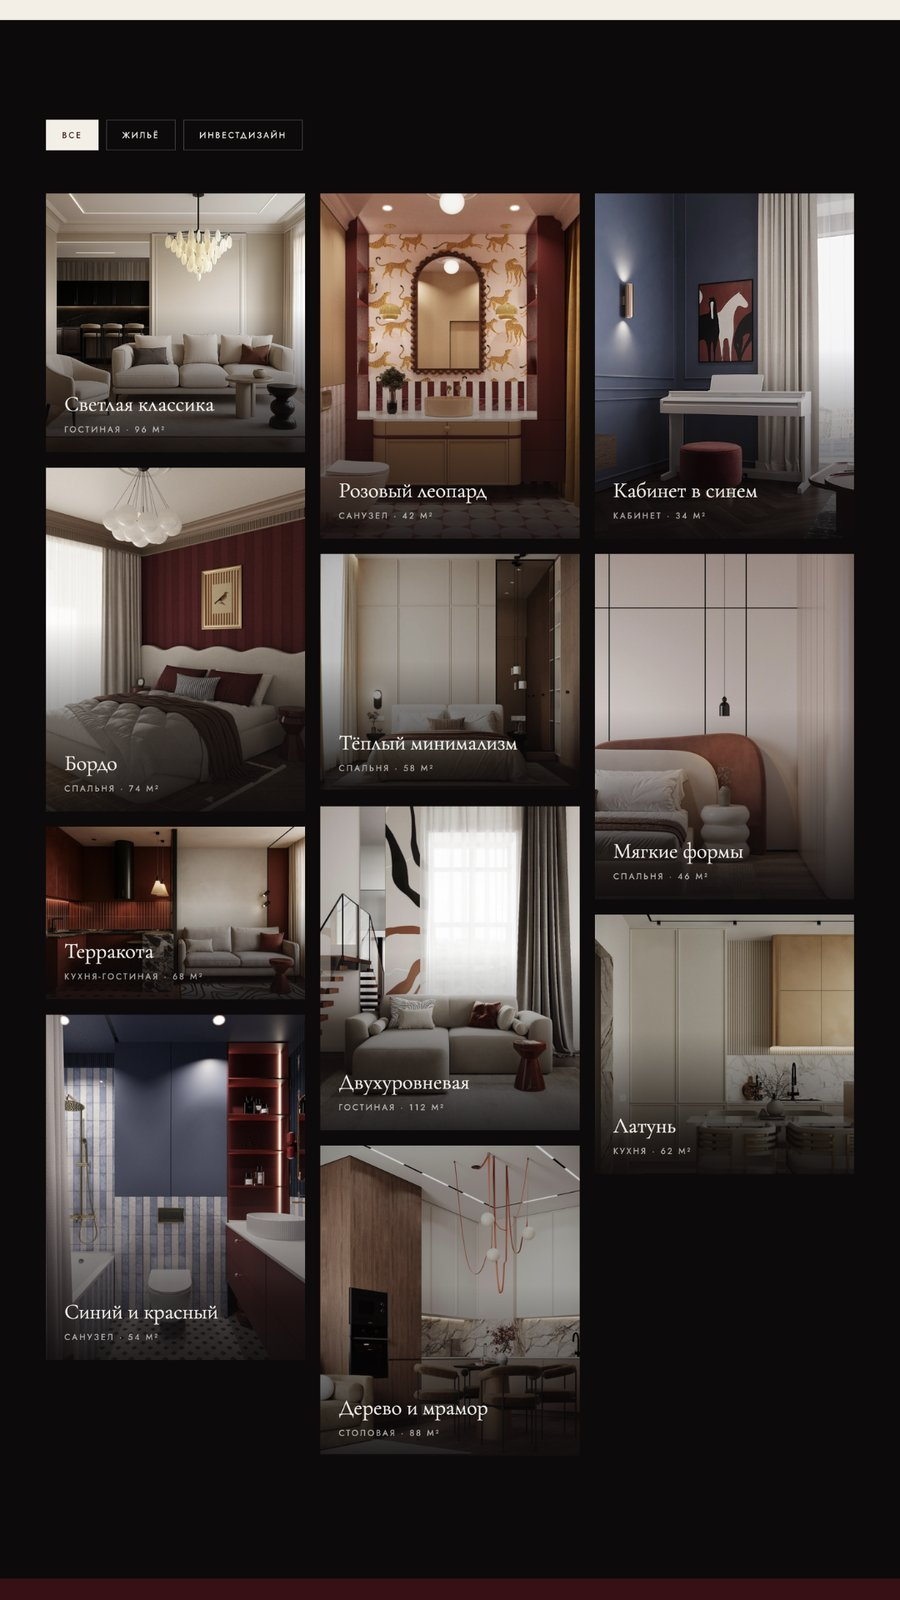
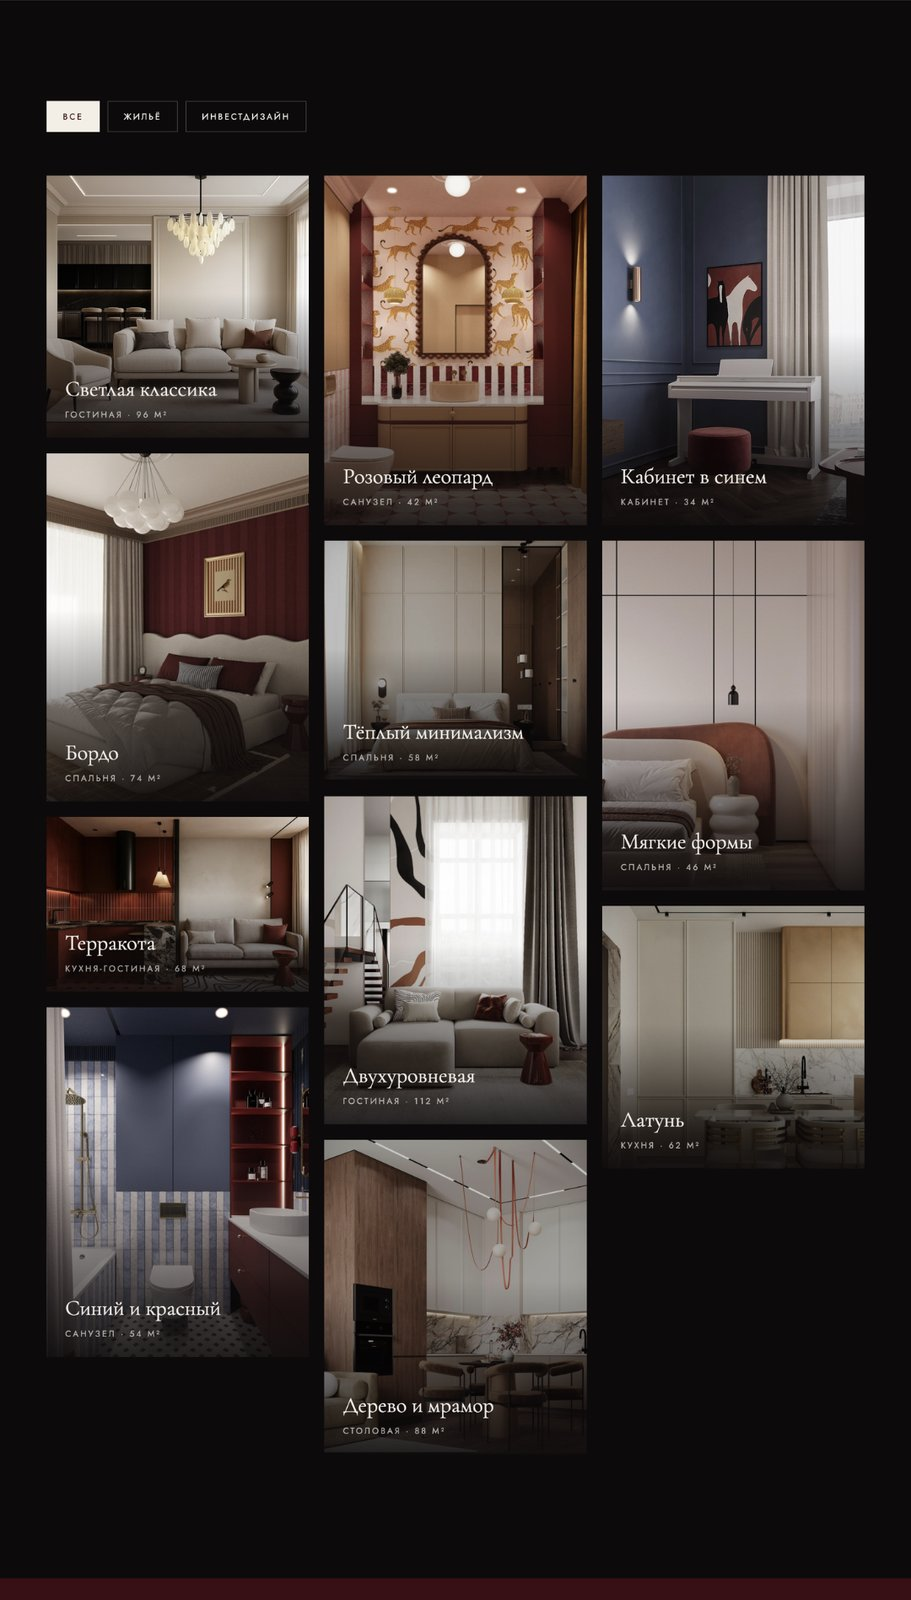
Cube: fix Liberman gallery crop on Ladoga face
The source screenshot had a ~24px cream-colored browser-chrome strip
baked into its very top edge, which was showing at the top of the
narrow container. Cropped it out and re-measured the real aspect ratio
(0.5696, not the assumed 0.5625), then widened the narrow container
slightly (0.30 -> 0.326, with wide/accent/pair-2 shifting to absorb
the difference) so the grid stops losing its right column to crop.

diff --git a/index.html b/index.html
@@ -750,10 +750,10 @@
     { x: 0,    y: 0,      w: 0.76, h: 0.4275, role: 'anchor' },
     { x: 0.76, y: 0,      w: 0.24, h: 0.4276, role: 'detail' },
     { x: 0.76, y: 0.4276, w: 0.24, h: 0,      role: 'detail' },
-    { x: 0,    y: 0.4275, w: 0.30, h: 0.5725, role: 'narrow' },
-    { x: 0.30, y: 0.4275, w: 0.70, h: 0.35,   role: 'wide'   },
-    { x: 0.30,  y: 0.7725, w: 0.355, h: 0.2225, role: 'accent' },
-    { x: 0.655, y: 0.7725, w: 0.345, h: 0.2225, role: 'detail' },
+    { x: 0,      y: 0.4275, w: 0.326,  h: 0.5725, role: 'narrow' },
+    { x: 0.326,  y: 0.4275, w: 0.674,  h: 0.35,   role: 'wide'   },
+    { x: 0.326,  y: 0.7725, w: 0.3418, h: 0.2225, role: 'accent' },
+    { x: 0.6678, y: 0.7725, w: 0.3322, h: 0.2225, role: 'detail' },
     { x: 0.30, y: 1.0,    w: 0,    h: 0,      role: 'detail' }
   ];
   /* TOP — anchor band at the bottom (mirrored pair, as on BACK),
@@ -1038,7 +1038,7 @@
   setTile('right', 0, { src: 'assets/cube/right-0-enduro.mp4', type: 'video', project: 'enduro',   label: 'Enduro Energy',    category: 'Enduro rental website',     link: 'case-enduro.html', focalPointX: 50, focalPointY: 50 , projectGroup: 'enduro'});
   setTile('left',  0, { src: 'assets/cube/left-0-ladoga.mp4', type: 'video', project: 'ladoga',   label: 'Ladoga',           category: 'Boat rental website',      focalPointX: 55, focalPointY: 45 , projectGroup: 'ladoga'});
   setTile('left',  1, { src: 'assets/cube/left-3-ladoga-mobile.jpg', type: 'image', project: 'ladoga-mobile', label: 'Ladoga', category: 'Boat rental website', aspectRatio: 0.548, focalPointX: 50, focalPointY: 46 , projectGroup: 'ladoga'});
-  setTile('left',  3, { src: 'assets/cube/left-3-liberman-projects.jpg', type: 'image', project: 'liberman-projects', label: 'Liberman Studio', category: 'Interior design', aspectRatio: 0.5625, focalPointX: 50, focalPointY: 50 , projectGroup: 'liberman'});
+  setTile('left',  3, { src: 'assets/cube/left-3-liberman-projects.jpg', type: 'image', project: 'liberman-projects', label: 'Liberman Studio', category: 'Interior design', aspectRatio: 0.5696, focalPointX: 50, focalPointY: 48 , projectGroup: 'liberman'});
   setTile('left',  4, { src: 'assets/cube/left-6-enduro-motopark.mp4', type: 'video', project: 'enduro-motopark', label: 'Enduro Energy', category: 'Enduro rental website', link: 'case-enduro.html', focalPointX: 50, focalPointY: 55 , projectGroup: 'enduro'});
   setTile('left',  5, { src: 'assets/cube/left-6-noir.jpg', type: 'image', project: 'noir', label: 'NOIR', category: 'Fur brand website', aspectRatio: 1.779, focalPointX: 60, focalPointY: 30 , projectGroup: 'noir'});
   setTile('left',  6, { src: 'assets/cube/left-4-liana-scroll.mp4', type: 'video', project: 'liana-scroll', label: 'Liana', category: 'China production', focalPointX: 50, focalPointY: 30 , projectGroup: 'liana'});
